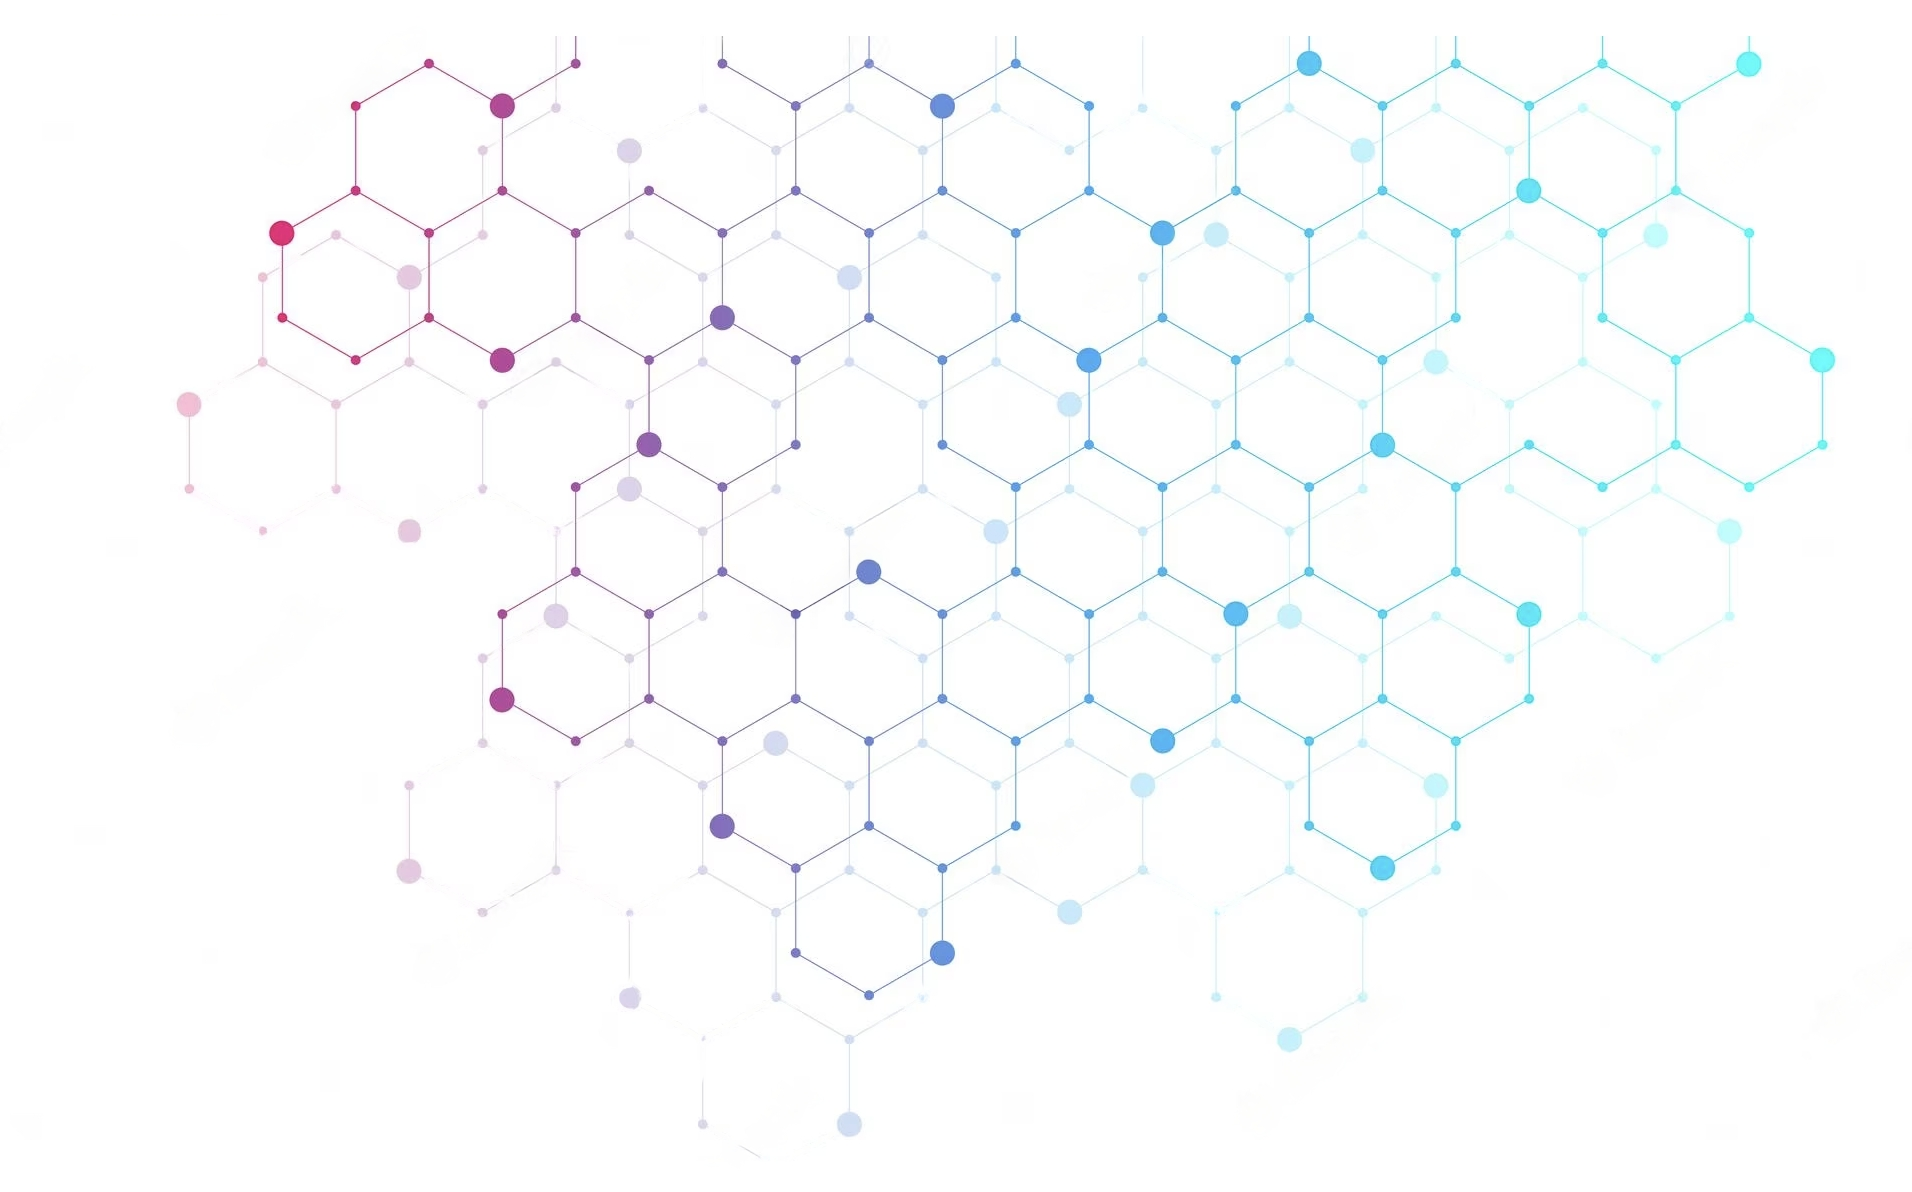
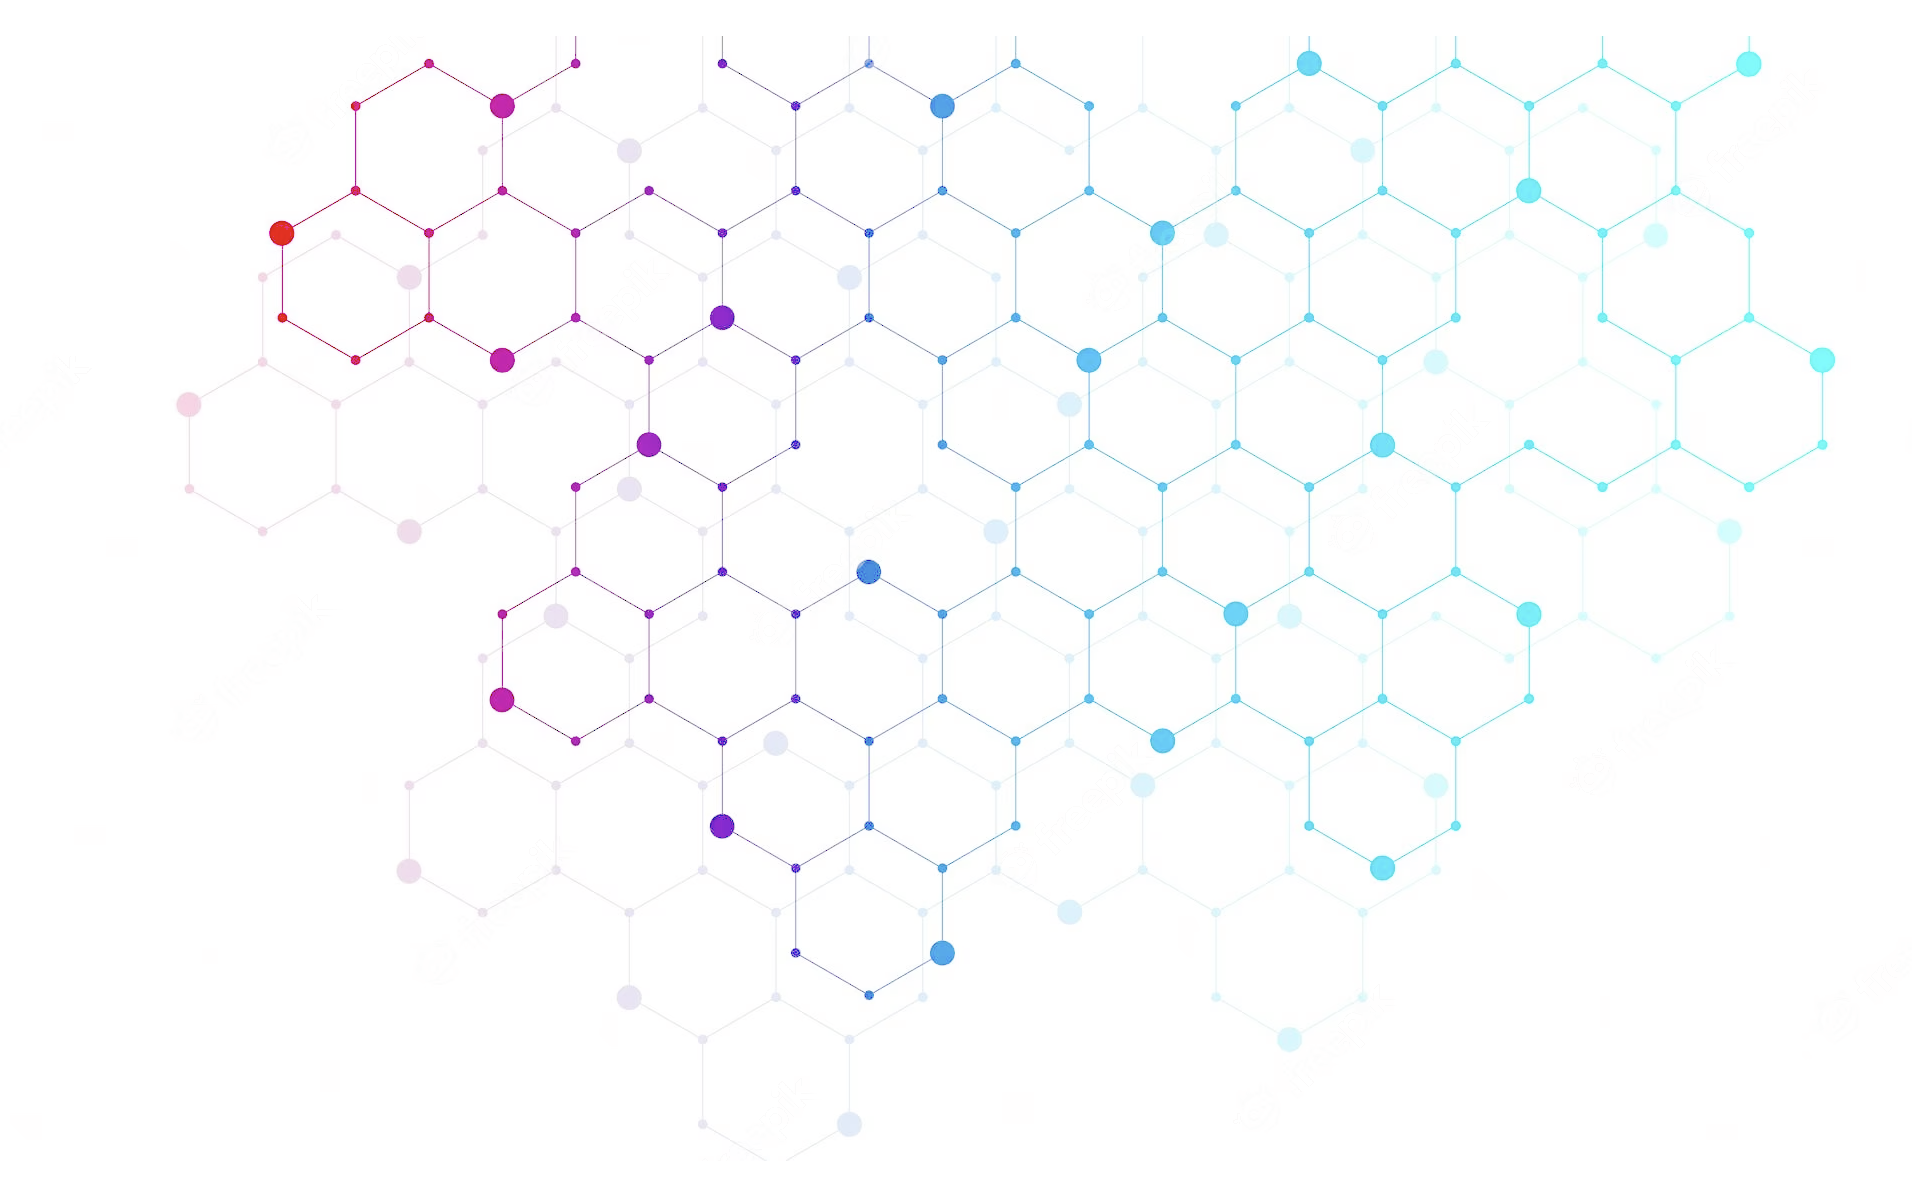
images

diff --git a/style.css b/style.css
@@ -841,7 +841,7 @@ font-weight: bolder;
 
 body{
 background-position: bottom top;
-background-size: 200%;
+background-size: 170%;
 }
 
 #one{
